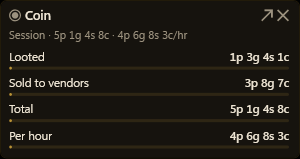
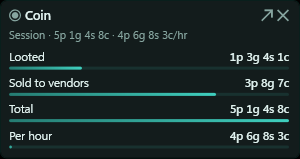
Money peek: Share gauges draw the fraction of the session total
The owner's ~4:32 PM CT shot (2026-09-07): the Money peek's four rows draw no
bars — "Share gauges empty (only left dots)".

**Root cause is a rule that was reasoned about and never looked at.** `Money`
shipped with `Share = 0` on every row and a comment arguing that four facts are
not a ranking, so no gauge belonged. But the host floors a bar at 1%
(`BreakdownRows.Row` clamps `frac` to `[0.01, 1]`), so "no gauge" never rendered
as nothing — it rendered as four identical stubs under four rows that plainly
are parts of one figure, which reads as a broken gauge rather than an absent
one. The dots in the report ARE the floor. The owner's call: they draw.

**The denominator is the session TOTAL, not the biggest row.** Core makes the
arithmetic exact — `StatsSnapshot.Copper = CorpseCopper + VendorCopper` — so
Looted and Sold are true parts of Total and their two bars fill the Total bar
between them. Share-of-the-biggest (`Gauged`, what every other peek here draws)
would have made the LARGER of the two full and Total full as well, saying a part
and its whole are equal.

**Per hour keeps no gauge, and that is the honest answer rather than the tidy
one.** It is a RATE: it has no share of a total, is not bounded by one, and
exceeds it on any session under an hour. The one thing that would have drawn —
`total / perHour` — is the session's LENGTH wearing a coin row's label. Its
tooltip says so, because the 1% floor means an absent bar is visible either way
[…]

diff --git a/src/EQBuddy.UI.Shared/HudExpandPeek.cs b/src/EQBuddy.UI.Shared/HudExpandPeek.cs
@@ -5,7 +5,12 @@ namespace EQBuddy.UI.Shared;
 /// <summary>One row of an under-bar peek: a name, the value beside it, and how full its
 /// gauge is.</summary>
 /// <param name="Share">0–1, for the row's under-bar. It is a SHARE of the biggest row
-/// rather than of the total, which is what every other breakdown list in the app draws.</param>
+/// rather than of the total, which is what every other breakdown list in the app draws —
+/// EXCEPT <see cref="HudExpandPeek.Money"/>, whose rows are parts of one figure and are
+/// therefore drawn against the session total. That difference is named on the builder, and
+/// a builder that draws no gauge at all says 0 there: the host clamps a bar to a 1% floor,
+/// so **0 is a visible sliver rather than nothing** and is only honest when the row has no
+/// share to state.</param>
 public sealed record PeekRow(string Name, string Value, double Share, string? Tooltip = null);
 
 /// <summary>
@@ -295,9 +300,27 @@ public static class HudExpandPeek
     /// <summary>
     /// The Money peek: the Wealth tab's coin facts — looted, vendor, total, per hour.
     ///
-    /// **FOUR FACTS, NOT A RANKING, so there is no gauge.** Every other peek here is a list
-    /// of comparable things; this is one figure broken into its parts, and a bar under "per
-    /// hour" would be comparing a rate against a total.
+    /// **THE GAUGE IS A SHARE OF THE SESSION TOTAL, not of the biggest row** (the owner's
+    /// ~4:32 PM CT shot, 2026-09-07). This builder shipped with every row at
+    /// <c>Share = 0</c> and a comment arguing that four facts are not a ranking, so no bar
+    /// belonged — but the host floors a bar at 1% (<c>BreakdownRows.Row</c>), so "no gauge"
+    /// did not render as nothing. It rendered as four identical stubs on the left of four
+    /// rows that plainly are parts of one figure, which reads as a broken gauge rather than
+    /// as an absent one. The owner's call: they draw.
+    ///
+    /// **The denominator is <paramref name="total"/>, and it is the right one because Core
+    /// makes it exact.** <c>StatsSnapshot.Copper</c> is <c>_copper + _vendorCopper</c> —
+    /// looted plus sold, by construction — so Looted and Sold are true parts of it and their
+    /// two bars fill the Total bar between them. Share-of-the-biggest (what <see cref="Gauged"/>
+    /// draws everywhere else) would have made the LARGER of the two full and Total full as
+    /// well, saying "these are equal" about a part and its whole.
+    ///
+    /// **Per hour keeps no gauge, and that is the honest answer rather than the tidy one.**
+    /// It is a RATE: it has no share of a total, it is not bounded by one, and on any session
+    /// under an hour it exceeds it. Drawing it against <paramref name="total"/> would assert
+    /// a comparison that does not exist (<see cref="Loot"/>'s flat gauge is refused for the
+    /// same reason, one dimension over). Its tooltip says so, so the one row without a bar
+    /// answers "why" on hover instead of looking like the bug this change fixes.
     ///
     /// **The per-item <c>SoldItems</c> breakdown stays in the window.** The peek is row-capped
     /// at five and the ⧉ is one click from the full Wealth tab, which is what "the same
@@ -313,13 +336,35 @@ public static class HudExpandPeek
 
         List<PeekRow> rows =
         [
-            new("Looted", StatsSnapshot.FormatCoin(looted), 0),
-            new("Sold to vendors", StatsSnapshot.FormatCoin(vendor), 0),
-            new("Total", StatsSnapshot.FormatCoin(total), 0),
-            new("Per hour", StatsSnapshot.FormatCoin(perHour), 0),
+            new("Looted", StatsSnapshot.FormatCoin(looted), CoinShare(looted, total),
+                $"Looted from corpses — {Percent(looted, total)} of this session's coin"),
+            new("Sold to vendors", StatsSnapshot.FormatCoin(vendor), CoinShare(vendor, total),
+                $"Sold to vendors — {Percent(vendor, total)} of this session's coin"),
+            // The whole, and the reference the two bars above are drawn against.
+            new("Total", StatsSnapshot.FormatCoin(total), 1.0,
+                "Looted + sold — the whole the shares above are drawn against"),
+            new("Per hour", StatsSnapshot.FormatCoin(perHour), 0,
+                "A rate, not a part of the total — there is no share to draw"),
         ];
         return new PeekBody(subtext, rows, null, $"money|{looted}|{vendor}|{total}|{perHour}");
     }
+
+    /// <summary>One coin row's fraction of the session total, clamped.
+    ///
+    /// **The clamp is not decoration.** Core makes <c>Copper = CorpseCopper + VendorCopper</c>,
+    /// so a part can never exceed the whole today — but this builder takes four independent
+    /// longs from a caller, and a bar is drawn from whatever it is handed. A second producer
+    /// of those numbers (a replay, a history row, a future surface) that disagreed by a copper
+    /// would otherwise paint a gauge past its own track, which is the kind of thing nothing
+    /// notices until it is in a screenshot.</summary>
+    private static double CoinShare(long part, long total) =>
+        total <= 0 ? 0 : Math.Clamp((double)part / total, 0, 1);
+
+    /// <summary>The same fraction as a percentage, for the row's hover. Whole numbers: the
+    /// gauge carries the comparison and the tooltip is there to name it, so a decimal point
+    /// would be precision the bar cannot show.</summary>
+    private static string Percent(long part, long total) =>
+        $"{CoinShare(part, total) * 100:0}%";
 
     /// <summary>
     /// The Deaths peek: what killed you and when, newest first.

diff --git a/tests/EQBuddy.Tests/HudExpandPeekTests.cs b/tests/EQBuddy.Tests/HudExpandPeekTests.cs
@@ -344,9 +344,10 @@ public class HudExpandPeekTests
     // ---------------------------------------------------------------- money ----
 
     /// <summary>The Wealth tab's four coin facts, formatted by <c>StatsSnapshot.FormatCoin</c>
-    /// so the peek and the tab cannot render one number two ways. NO gauge: this is one figure
-    /// broken into its parts, and a bar under "per hour" would compare a rate to a total.
-    /// </summary>
+    /// so the peek and the tab cannot render one number two ways. The gauge is a share of the
+    /// SESSION TOTAL (the owner's ~4:32 PM CT shot, 2026-09-07): these rows are parts of one
+    /// figure, so share-of-the-biggest — what every other peek here draws — would say a part
+    /// and its whole are equal.</summary>
     [Fact]
     public void MoneyPeek()
     {
@@ -357,8 +358,69 @@ public class HudExpandPeekTests
             body.Rows.Select(r => r.Name));
         Assert.Equal(StatsSnapshot.FormatCoin(1000), body.Rows[0].Value);
         Assert.Equal(StatsSnapshot.FormatCoin(2468), body.Rows[3].Value);
-        Assert.All(body.Rows, r => Assert.Equal(0, r.Share));
+        Assert.Equal(1000 / 1234.0, body.Rows[0].Share, 6);
+        Assert.Equal(234 / 1234.0, body.Rows[1].Share, 6);
         Assert.Contains(StatsSnapshot.FormatCoin(1234), body.Subtext);
+    }
+
+    /// <summary>The whole is a FULL bar, and the two parts fill it between them — the
+    /// relationship the gauge exists to draw. Core guarantees the arithmetic
+    /// (<c>StatsSnapshot.Copper = CorpseCopper + VendorCopper</c>), so this is the peek
+    /// agreeing with Core rather than a coincidence of one fixture.</summary>
+    [Theory]
+    [InlineData(1000, 234)]
+    [InlineData(1, 0)]
+    [InlineData(0, 5000)]
+    [InlineData(7, 7)]
+    public void MoneyPeekPartsAddUpToTheTotalBar(long looted, long vendor)
+    {
+        var total = looted + vendor;
+        var body = HudExpandPeek.Money(total, looted, vendor, perHour: total * 3);
+
+        Assert.Equal(1.0, body.Rows[2].Share);
+        Assert.Equal(1.0, body.Rows[0].Share + body.Rows[1].Share, 6);
+    }
+
+    /// <summary>Per hour is a RATE and keeps no gauge — the one row that is deliberately
+    /// empty, and the negative that stops "make the gauges draw" from being read as "give
+    /// every row a bar". Its tooltip carries the reason, because the host floors a bar at 1%
+    /// so an absent gauge is a visible stub either way.</summary>
+    [Fact]
+    public void MoneyPeekDrawsNoGaugeForARate()
+    {
+        var body = HudExpandPeek.Money(total: 1234, looted: 1000, vendor: 234, perHour: 2468);
+
+        var perHour = body.Rows[3];
+        Assert.Equal(0, perHour.Share);
+        Assert.NotNull(perHour.Tooltip);
+        Assert.Contains("rate", perHour.Tooltip, StringComparison.OrdinalIgnoreCase);
+        // And the rows that DO have a share are not empty — the bug this row's 0 is not.
+        Assert.All(body.Rows.Take(3), r => Assert.True(r.Share > 0));
+    }
+
+    /// <summary>The percentage a row's hover states is the percentage its bar draws — one
+    /// producer for both, so a tooltip can never disagree with the gauge beside it (trap 4).
+    /// </summary>
+    [Fact]
+    public void MoneyPeekTooltipsStateTheShareTheBarDraws()
+    {
+        var body = HudExpandPeek.Money(total: 1000, looted: 750, vendor: 250, perHour: 4000);
+
+        Assert.Contains("75%", body.Rows[0].Tooltip);
+        Assert.Contains("25%", body.Rows[1].Tooltip);
+    }
+
+    /// <summary>A caller that hands over parts exceeding the whole gets a clamped bar rather
+    /// than one drawn past its own track. Core cannot produce this today; a bar is drawn from
+    /// whatever it is handed, and a second producer of these four longs is exactly the kind of
+    /// thing nobody notices until it is in a screenshot.</summary>
+    [Fact]
+    public void MoneyPeekClampsAShareThatWouldOverflowItsTrack()
+    {
+        var body = HudExpandPeek.Money(total: 100, looted: 400, vendor: -20, perHour: 0);
+
+        Assert.Equal(1.0, body.Rows[0].Share);
+        Assert.Equal(0.0, body.Rows[1].Share);
     }
 
     /// <summary>The per-item breakdown stays in the WINDOW (the negative): the peek is

diff --git a/docs/TestPlan.md b/docs/TestPlan.md
@@ -226,6 +226,7 @@ where each of its assertions went.
 | **Every panel draws its OWN body**, not the meter under a new header. Pet reuses `LivePresentation.Meter`; everything else goes through `UI.Shared/HudExpandPeek`, and the WATCH and PROCS builders are read by floats as well — two builders for one list is trap 33, and SA-R changed the pin rule once already | **Auto** — `HudExpandPeekTests` (order, gauges, empties, the buff gauge showing what is LEFT, and one NEGATIVE per OE-9 builder — a named mote is not a Potential mote, a mob not in `YourKills` is absent, the sold-item breakdown stays in the window); **E2E** — `HudExpandTests.EveryNonTrioTargetDrawsItsOwnBody`, asserting `hudExpandBody`. **That fact exists because the row count could not settle it**: `pet` and `dps` both draw five rows against the fixture, and a panel headed “Pet damage” over the Damage meter is right on screen, right in a screenshot and right on every count (trap 24, one layer in). Prove-failed — the mutation reports `hudExpandBody=damage`. Every row's expected count was grepped out of the fixture before the run, which is how `procs` and `deaths` are asserted EMPTY: the log has no "feels alive with power" line and no death at all, and "a melee log surely has procs" is the confident guess that made the Pet row wrong the first time |
 | **The Buff set has a chip on the bar for the first time.** “buffs” has always been a `MiniStats` key that gated the window and drew no cell, so the window's only doors were Options and an opt-in double-click on a chip that did not exist (trap 59). It is drawn by `HudBarView` from the buff tracker's count rather than by `MiniBarPresentation`, because `StatsSnapshot` carries no buff state at all | **E2E** — `HudBarTests.TheBuffStarPutsACellOnTheBarAndNothingElseDoes` and `…WithoutTheBuffStarThereIsNoBuffCell`, a PAIR so the count fails in either direction — an absent control photographs as an unremarkable bar (trap 29). Prove-failed by removing the cell |
 | **The Loot peek shows the TARGET, never the session** (Bevel, lock-6/OE-9 round). It shipped with OE-7 reading `s.Loot`/`s.LootTotal` — the same session list the Loot CARD already shows in full — which answered a different question than the chip's own pop-out: `LootBreakoutView`'s Target\|Session toggle already defaults to Target, so a peek that opened on Session was the one chip whose hover and whose ↗ described two different scopes. `HudExpandPeek.Loot` now reads the SAME `MainWindow.TargetDropsContent`/`TargetEmptyNote` calls the float's Target scope makes, and says "No target" (`LootPresentation.NoTargetNote`, shared with the float so the two surfaces cannot describe "nothing targeted" two different ways — trap 4) rather than falling back to a session count | **Auto** — `HudExpandPeekTests.LootPeekShowsTheTargetNotTheSession`, `…WithNoTargetSaysSoRatherThanShowingSession`, `…WithATargetButNothingKnownUsesTheCallersEmptyNote` |
+| **The Money peek's gauge is a share of the SESSION TOTAL, and Per hour has none** (the owner's ~4:32 PM CT shot, 2026-09-07). It shipped with every row at `Share = 0` on the argument that four facts are not a ranking — but `BreakdownRows.Row` floors a bar at 1%, so "no gauge" drew four identical stubs under four rows that plainly are parts of one figure, which reads as a broken gauge rather than an absent one. Looted and Sold are drawn against Total (Core makes `Copper = CorpseCopper + VendorCopper`, so the two fill it exactly), Total is a full bar, and Per hour keeps none because a rate has no share of a total — its tooltip says so, since the 1% floor means an absent bar is visible either way | **Auto** — `HudExpandPeekTests.MoneyPeek`, `…MoneyPeekPartsAddUpToTheTotalBar` (a theory, so the relationship is asserted rather than one fixture), `…MoneyPeekDrawsNoGaugeForARate` (the negative), `…MoneyPeekTooltipsStateTheShareTheBarDraws` (one producer for the hover and the bar — trap 4), `…MoneyPeekClampsAShareThatWouldOverflowItsTrack`. Prove-failed: 8 of 10 Money tests fail with the shares back at 0 |
 | **The panel has ONE width, and the buff countdown is why.** It was a 260–340 band whose content decided the number, so the window resized on the widget's tick as ability names changed — #173's mechanism at a smaller amplitude (trap 12). A ticking clock in a row would have made that once a second; a clock kept OUT of the repaint gate would have frozen the countdown instead, which is a wrong answer rather than a saving | **Auto** — `HudExpandPeekTests.BuffPeekSignatureMovesWithTheClock` (the gate deliberately moves with the clock, and the fixed width is what buys that) |
 | No setting gains readers without a writer — the signature behind #204, #210 and #212 | **Auto** — `DeadSettingTests` |
 | Mobile's Sky list is never narrowed by a setting no player can change, and its ★ Ready band is a summary — no checkbox, never struck through | **Auto** — `SurfaceParityTests` |

diff --git a/DECISIONS.md b/DECISIONS.md
@@ -1,3 +1,10 @@
+## 2026-09-07 (Money peek Share gauges — owner shot ~4:32 PM CT)
+
+- **The Money peek's gauge is a share of the SESSION TOTAL, not of the biggest row** · every other peek here draws share-of-the-biggest (`HudExpandPeek.Gauged`) · the total, because these four rows are parts of one figure rather than a ranking: share-of-the-biggest would have drawn the LARGER of Looted/Sold full and Total full as well, saying a part and its whole are equal. Core makes the arithmetic exact (`StatsSnapshot.Copper = CorpseCopper + VendorCopper`), so the two parts fill the Total bar between them.
+- **Per hour keeps NO gauge, and the owner's note allowed either** · "Per hour maybe N/A or vs session rate" · no gauge, because it is a rate: it has no share of a total, is not bounded by one, and exceeds it on any session under an hour. The one thing that would have drawn (`total / perHour`) is the session's LENGTH wearing a coin row's label. Its tooltip states the reason, because `BreakdownRows.Row` floors a bar at 1% — so an absent gauge is a visible stub either way, and that stub with no explanation is exactly what the owner's shot reported.
+- **The percentage went in the TOOLTIP rather than in the row's value** · the shot asks for "% of total" · the bar carries the comparison and the hover names it: the panel is one fixed 300 wide and a coin string is already long ("12p 3g 4s 5c"), which is how `hud-expand-procs` shipped a row clipped mid-number (trap 14's family). One producer for both, so the hover cannot disagree with the bar beside it.
+- **No new "FIXED" What's-new entry; the existing 2.0.0 tray-sweep entry gained the bar** · the standing rule is an entry per player-noticeable change · amended in place, because 2.0.0 is UNRELEASED (latest tag is `v1.99.18`) — the Money peek and its empty gauges have never reached a player, so a "FIXED" entry would credit a bug nobody could have seen. Editing an entry that HAS shipped is what `whatsnew-guard.ps1` forbids; this one has not.
+
 ## 2026-09-07 (TR-2 — installer identity split: EQBuddyEvolvedSetup, new AppId, {autopf}\EQBuddy Evolved)
 
 - **The v1 installer script was RENAMED into the Evolved one rather than kept beside it** · the obvious alternative is two `.iss` files, `EQBuddy.iss` for 1.x and `EQBuddyEvolved.iss` for 2.x, with `release.ps1` choosing by major · renamed, because a file in this tree that produces `EQBuddySetup.exe` is one hand-run `ISCC` from the reserved name whatever the scripts do, and the guard row would then have to permit the very thing it exists to forbid. The v1 line is finished and lives on `legacy-v1` with its own copy — the same observation that let E-2c delete `release-assets.yml` from the mainline (a tag builds from the tag's tree, LEGACY-004). **Nothing v1 needs was removed from where v1 builds from.**
